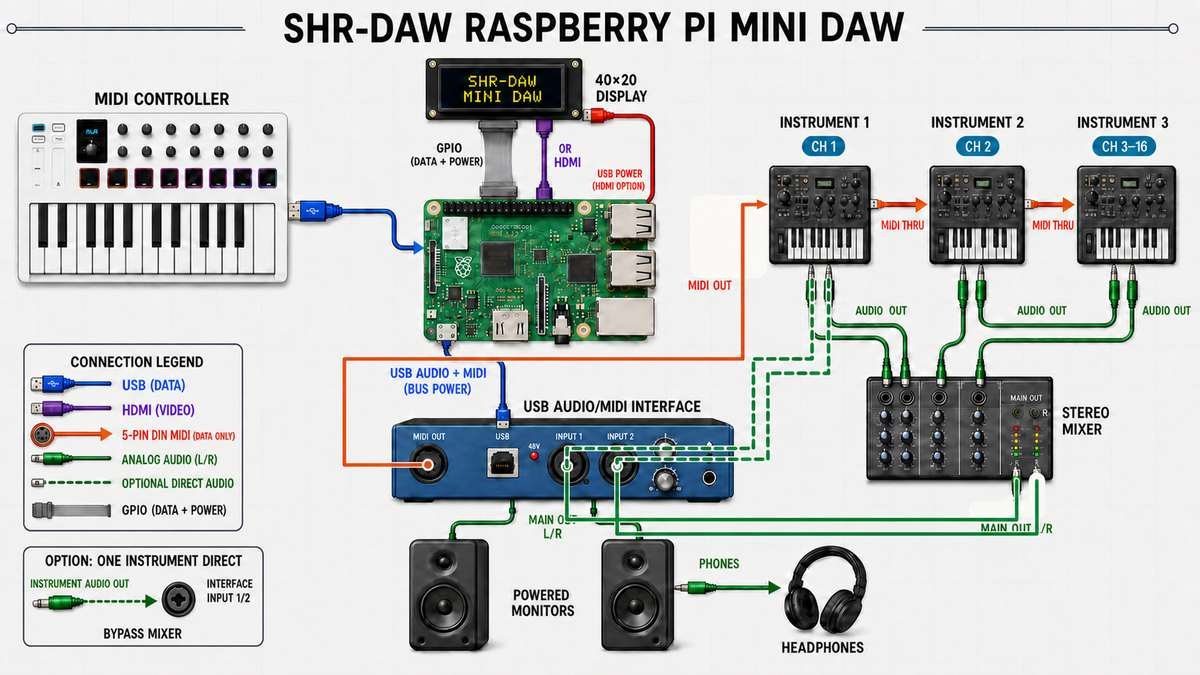
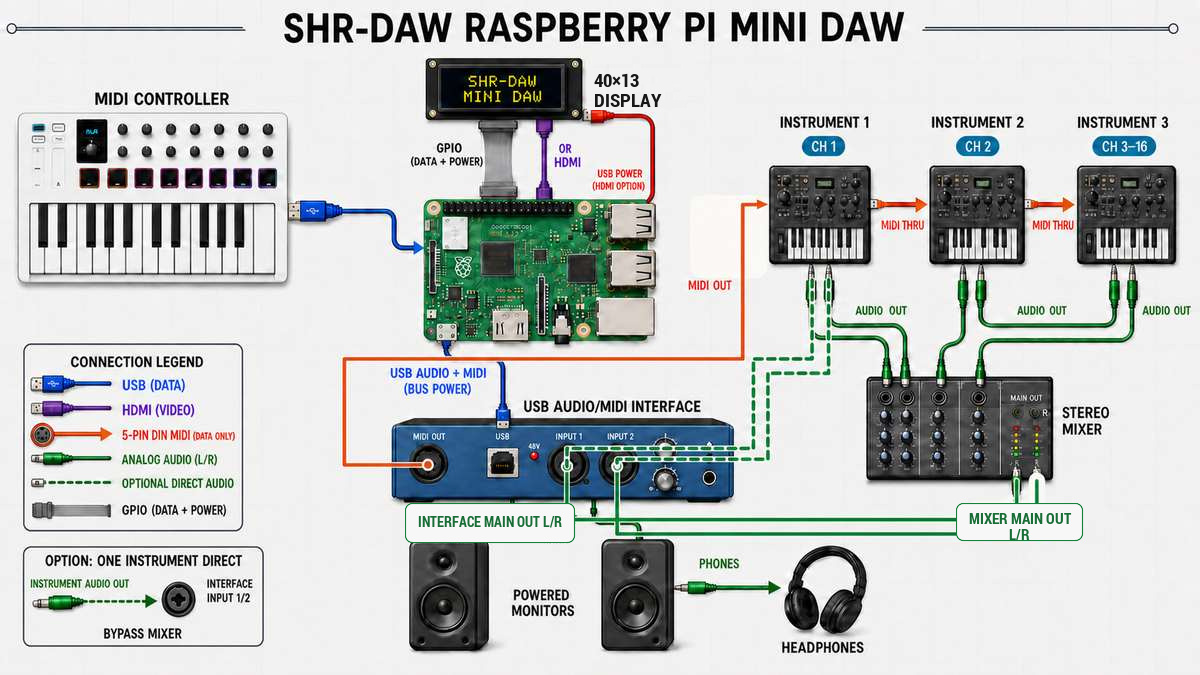
Fix connection diagram and social preview

Changed region(s): [[0.3392, 0.7467, 0.4933, 0.8089], [0.8017, 0.7467, 0.8942, 0.8089], [0.4933, 0.0933, 0.555, 0.1867]]

diff --git a/docs/index.html b/docs/index.html
@@ -13,15 +13,15 @@
 <meta property="og:title" content="SHR-DAW | Raspberry Pi mini DAW">
 <meta property="og:description" content="SHR-DAW is a compact Raspberry Pi music workstation for a 40×13 terminal, optional MIDI gear, software instruments, FT2-style sequencing, WAV loops, effects, and JACK recording.">
 <meta property="og:url" content="https://paolashultz.github.io/shr-daw/">
-<meta property="og:image" content="https://paolashultz.github.io/shr-daw/images/shr-daw-physical-connections.jpg">
+<meta property="og:image" content="https://paolashultz.github.io/shr-daw/images/shr-daw-social-card.jpg">
 <meta property="og:image:type" content="image/jpeg">
 <meta property="og:image:width" content="1200">
-<meta property="og:image:height" content="675">
+<meta property="og:image:height" content="630">
 <meta property="og:image:alt" content="SHR-DAW Raspberry Pi mini DAW physical connection diagram">
 <meta name="twitter:card" content="summary_large_image">
 <meta name="twitter:title" content="SHR-DAW | Raspberry Pi mini DAW">
 <meta name="twitter:description" content="SHR-DAW is a compact Raspberry Pi music workstation for a 40×13 terminal, optional MIDI gear, software instruments, FT2-style sequencing, WAV loops, effects, and JACK recording.">
-<meta name="twitter:image" content="https://paolashultz.github.io/shr-daw/images/shr-daw-physical-connections.jpg">
+<meta name="twitter:image" content="https://paolashultz.github.io/shr-daw/images/shr-daw-social-card.jpg">
 <style>
 :root {
   color-scheme: dark;
@@ -2929,7 +2929,7 @@ over SSH. Audio can use any Pi, HDMI, or USB output exposed through JACK.</p>
 control surface when you want to operate SHR-DAW without a computer keyboard or
 mouse.</p>
 <h4 id="doc-connections--expanded-setup" tabindex="-1">Expanded setup<a class="heading-anchor" href="#doc-connections--expanded-setup" aria-label="Link to Expanded setup">#</a></h4>
[2 lines of base64/hex data omitted]
 <p>The main paths are:</p>
 <ul>
 <li>controller or computer keyboard → SHR-DAW;</li>
@@ -10434,8 +10434,8 @@ explicit overview/current/archive/legal placement around those owned groups.</p>
 <p>The single tracked output is <code>docs/index.html</code>; <code>docs/.nojekyll</code> is a static
 GitHub Pages control file and is not generated. CSS and JavaScript are inline.
 Referenced images remain relative files below <code>docs/images/</code>. The social-card
-metadata uses the absolute production URL for the existing 1200×675 physical
-connections image so link-preview crawlers can retrieve it.</p>
+metadata uses the absolute production URL for the dedicated 1200×630 connection
+diagram so link-preview crawlers can retrieve the crop-safe composition.</p>
 <p>The visible page is a product presentation, not an expanded repository dump.
 It uses one introduction and one screenshot tour. Detailed guides are closed
 by default, and measurements, maintainer records, handoffs, and proposals sit

diff --git a/scripts/generate-docs-site.py b/scripts/generate-docs-site.py
@@ -35,7 +35,7 @@ DOCS_DIR = ROOT / "docs"
 OUTPUT = DOCS_DIR / "index.html"
 REPOSITORY_URL = "https://github.com/PaolaShultz/shr-daw"
 SITE_URL = "https://paolashultz.github.io/shr-daw/"
-SOCIAL_IMAGE = "docs/images/shr-daw-physical-connections.jpg"
+SOCIAL_IMAGE = "docs/images/shr-daw-social-card.jpg"
 EXPECTED_MARKDOWN_IT = "2.1.0"
 EXPECTED_MDIT_PLUGINS = "0.3.3"
 
@@ -1385,9 +1385,9 @@ def build_page(
     if not social_path.is_file():
         fail(f"missing social preview image: {SOCIAL_IMAGE}")
     social_width, social_height = image_size(social_path)
-    if (social_width, social_height) != (1200, 675):
+    if (social_width, social_height) != (1200, 630):
         fail(
-            "social preview image must remain 1200x675, found "
+            "social preview image must remain 1200x630, found "
             f"{social_width}x{social_height}"
         )
 
@@ -1406,7 +1406,7 @@ def build_page(
         '<meta property="og:title" content="SHR-DAW | Raspberry Pi mini DAW">\n',
         f'<meta property="og:description" content="{html.escape(intro, quote=True)}">\n',
         f'<meta property="og:url" content="{SITE_URL}">\n',
-        f'<meta property="og:image" content="{SITE_URL}images/shr-daw-physical-connections.jpg">\n',
+        f'<meta property="og:image" content="{SITE_URL}images/shr-daw-social-card.jpg">\n',
         '<meta property="og:image:type" content="image/jpeg">\n',
         f'<meta property="og:image:width" content="{social_width}">\n',
         f'<meta property="og:image:height" content="{social_height}">\n',
@@ -1414,7 +1414,7 @@ def build_page(
         '<meta name="twitter:card" content="summary_large_image">\n',
         '<meta name="twitter:title" content="SHR-DAW | Raspberry Pi mini DAW">\n',
         f'<meta name="twitter:description" content="{html.escape(intro, quote=True)}">\n',
-        f'<meta name="twitter:image" content="{SITE_URL}images/shr-daw-physical-connections.jpg">\n',
+        f'<meta name="twitter:image" content="{SITE_URL}images/shr-daw-social-card.jpg">\n',
         "<style>\n",
         CSS.strip(),
         "\n</style>\n",

diff --git a/docs/MAINTAINER_HELPERS.md b/docs/MAINTAINER_HELPERS.md
@@ -477,8 +477,8 @@ explicit overview/current/archive/legal placement around those owned groups.
 The single tracked output is `docs/index.html`; `docs/.nojekyll` is a static
 GitHub Pages control file and is not generated. CSS and JavaScript are inline.
 Referenced images remain relative files below `docs/images/`. The social-card
-metadata uses the absolute production URL for the existing 1200×675 physical
-connections image so link-preview crawlers can retrieve it.
+metadata uses the absolute production URL for the dedicated 1200×630 connection
+diagram so link-preview crawlers can retrieve the crop-safe composition.
 
 The visible page is a product presentation, not an expanded repository dump.
 It uses one introduction and one screenshot tour. Detailed guides are closed
